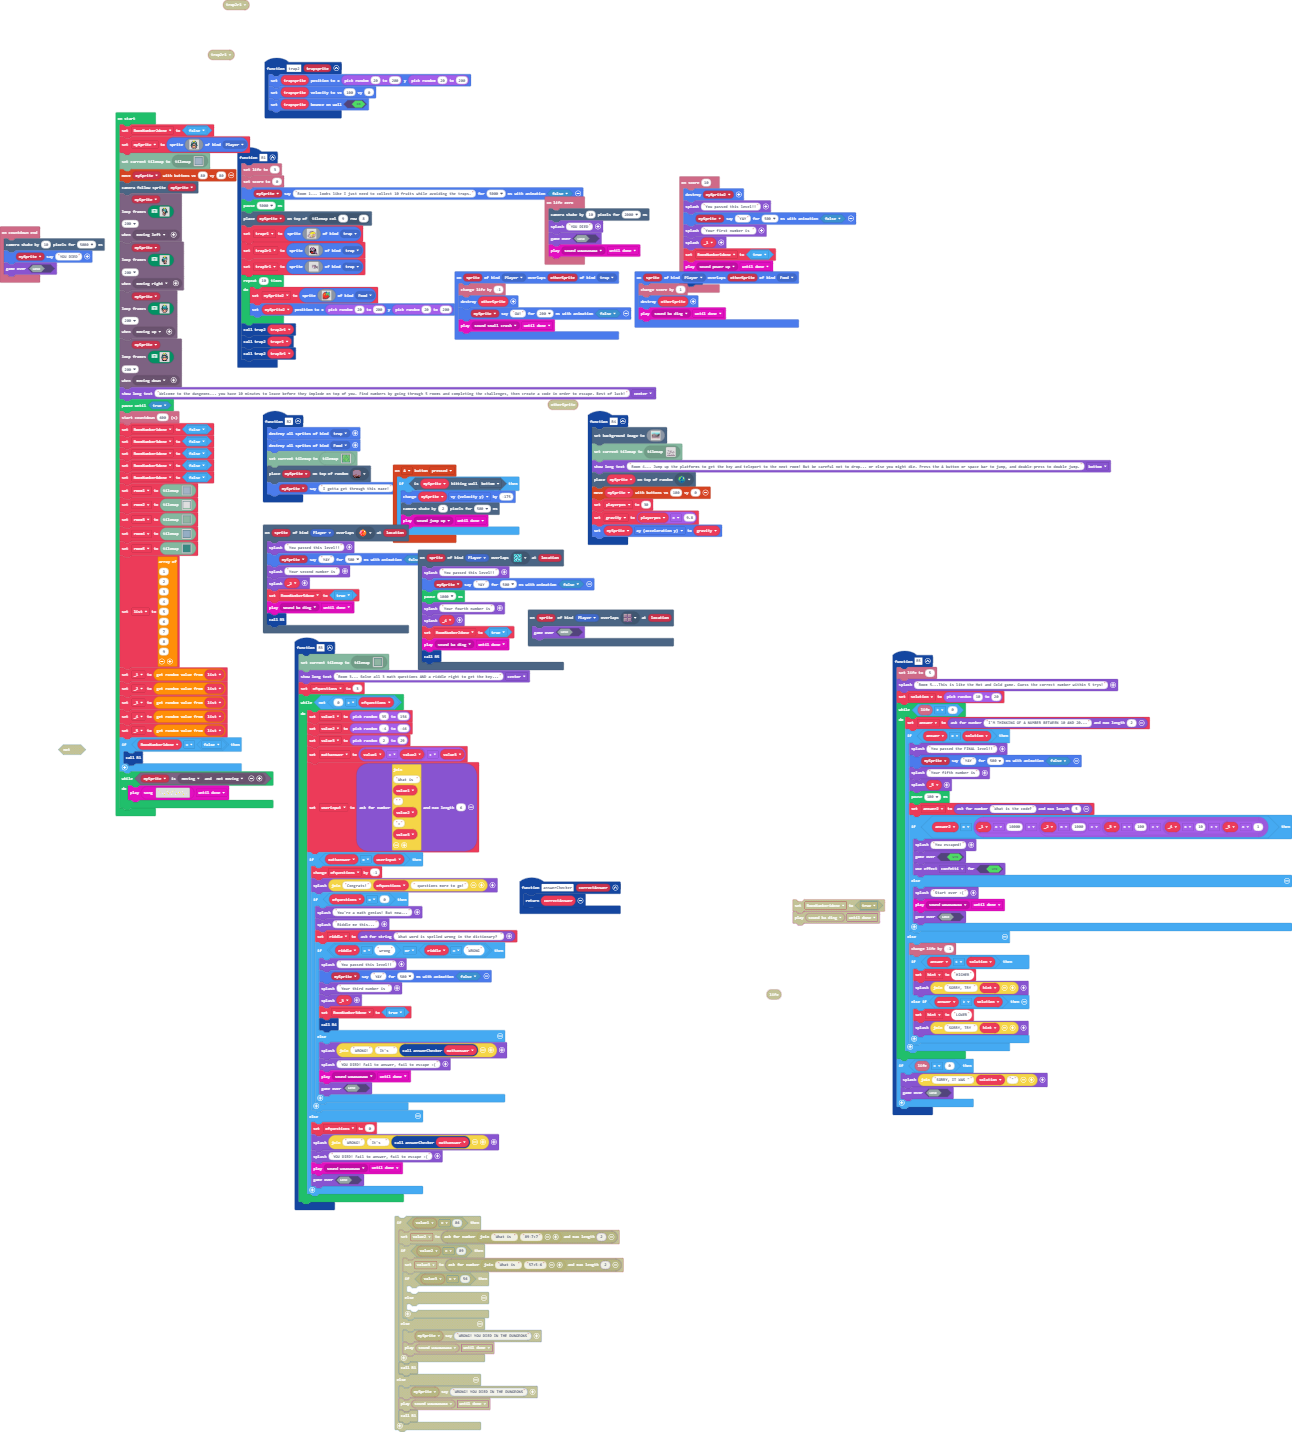
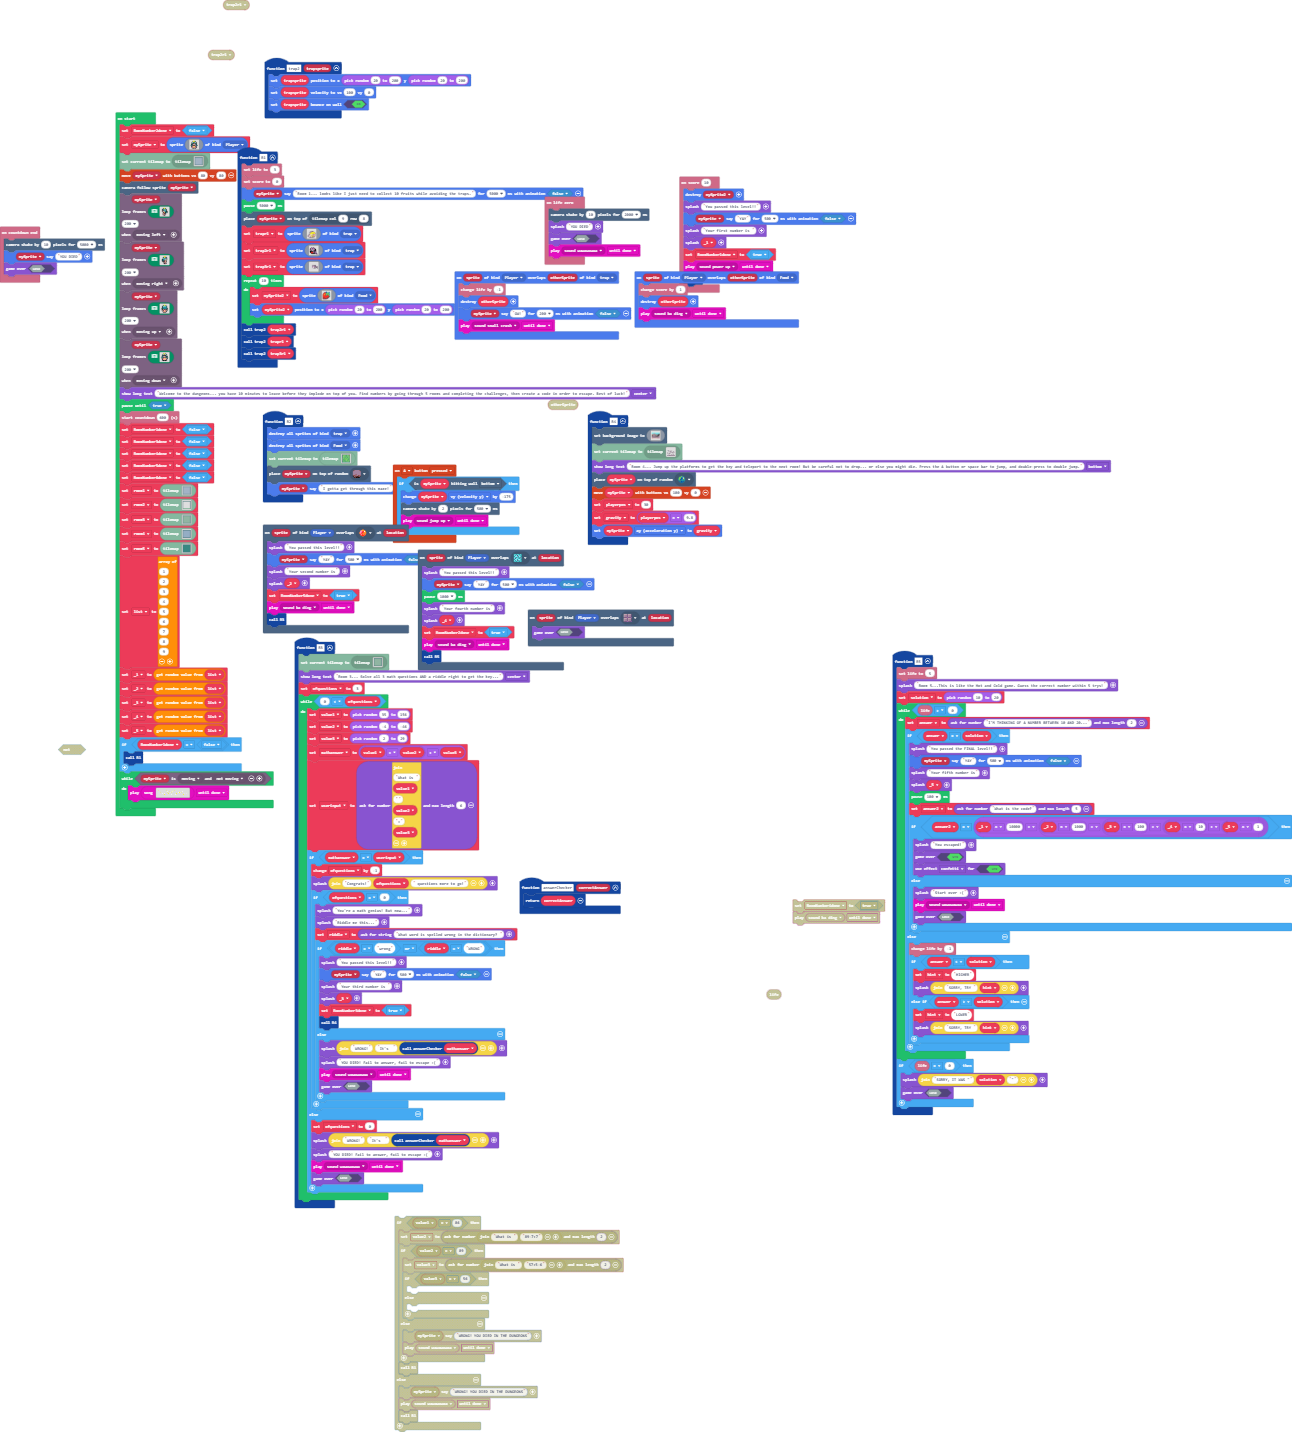
FINALEKJALKSDJFLWKJ

Changed region(s): [[0.2167, 0.4609, 0.4025, 0.8603], [0.6811, 0.4609, 0.774, 0.4916]]

diff --git a/main.ts b/main.ts
@@ -153,7 +153,7 @@ function R3 () {
     tiles.loadMap(tiles.createMap(tilemap`level8`))
     game.showLongText("Room 3... Solve all 3 math questions AND a riddle right to get the key...", DialogLayout.Center)
     ofquestions = 3
-    while (!(0 > ofquestions)) {
+    while (0 < ofquestions) {
         value1 = randint(35, 156)
         value2 = randint(-4, -46)
         value3 = randint(2, 29)
